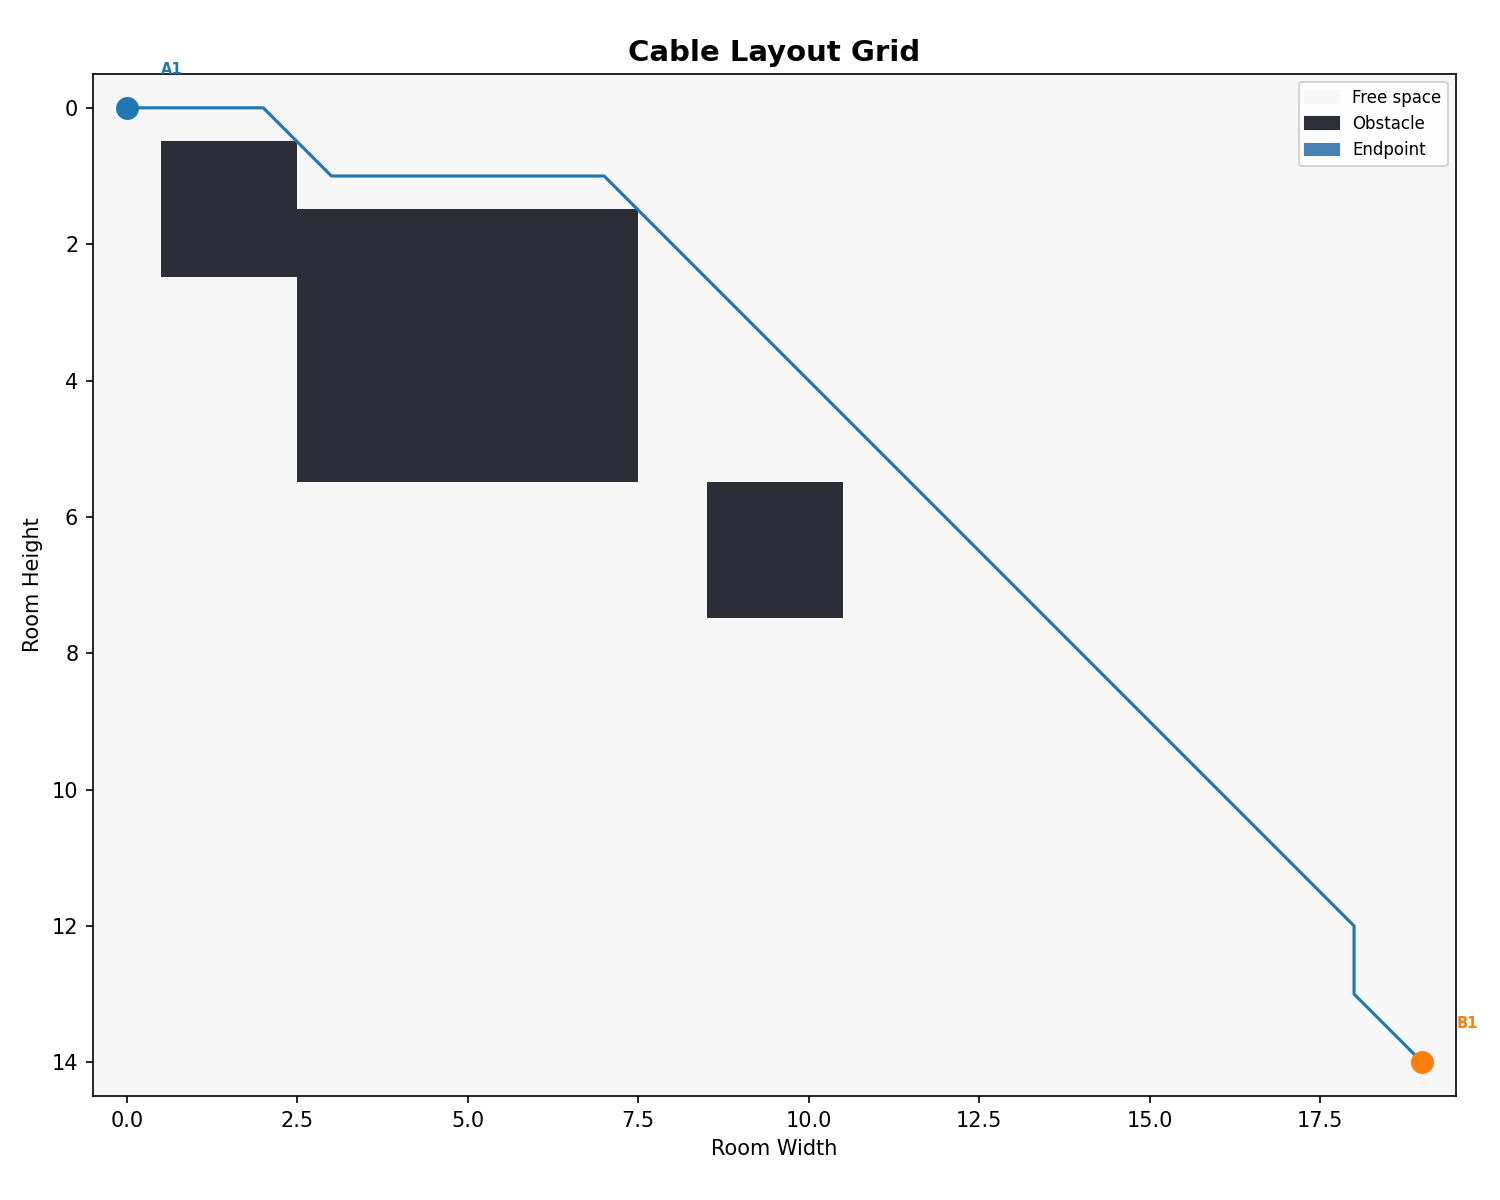
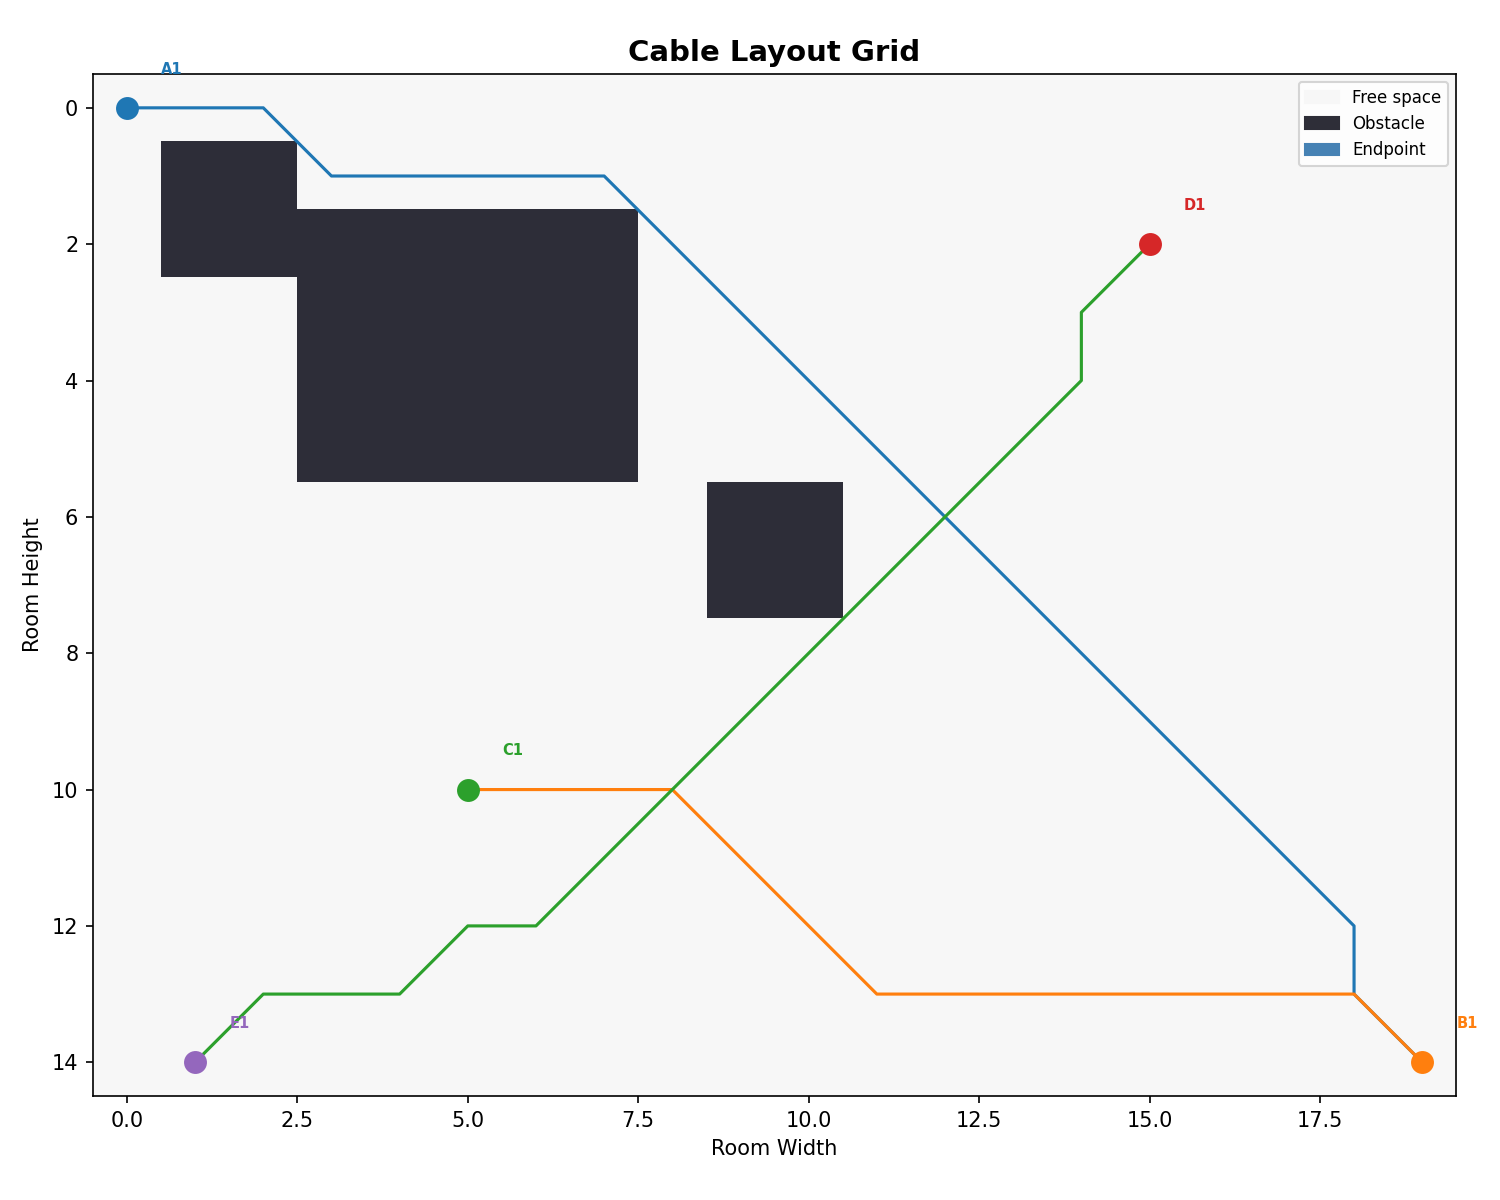
Working on intersections

diff --git a/Intersections.py b/Intersections.py
@@ -1,0 +1,15 @@
+from dataclasses import dataclass
+
+import numpy as np
+from collections import Counter
+
+@dataclass
+class Intersection:
+    x: int
+    y: int 
+    num_cables: int 
+
+def get_intersections(paths: list[np.array]):
+    node_counts = Counter(node for path in paths for node in path)
+    shared  = {node for node, count in node_counts.items() if count > 1}
+    return shared 

diff --git a/main.py b/main.py
@@ -3,7 +3,7 @@ import json
 import argparse
 import numpy as np
 from dataclasses import dataclass, field
-from typing import Optional
+from typing import Optional, Tuple
 import sys
 import AStar
 
@@ -50,6 +50,8 @@ class ParsedLayout:
     grid: np.ndarray           # 2-D int array  (0=free, 1=wall/obstacle)
     endpoint_coords: dict      # id → (row, col) in grid
 
+
+paths = list[np.array]
 
 def parse_json(path: str) -> tuple[Room, list[Obstacle], list[Endpoint]]:
     with open(path) as f:
@@ -281,7 +283,7 @@ def visualize_matplotlib(layout: ParsedLayout):
 
 
     # Draw connections
-    # TODO: USE A* TO DETERMINE CONNECTION LINES
+    # TODO: LOCATE INTERSECTIONS 
 
     for i, ep in enumerate(layout.endpoints):
         if ep.connects_to is not None:
@@ -290,10 +292,11 @@ def visualize_matplotlib(layout: ParsedLayout):
             path = AStar.find_path(layout.grid, start, end)
             if path:
                 path = np.array(path)
+                paths.append(path)
                 plt.plot(path[:,1], path[:, 0])
         else:
             continue
-        
+
     rows, cols = layout.grid.shape
     ax.set_xlim(-0.5, cols - 0.5)
     ax.set_ylim(rows - 0.5, -0.5)
@@ -310,7 +313,7 @@ def visualize_matplotlib(layout: ParsedLayout):
     plt.savefig("layout_preview.png", dpi=150)
     print("  [info] Saved graphical preview to layout_preview.png")
     plt.show()
-
+s
 
 def main():
     parser = argparse.ArgumentParser(description="Parse a JSON room layout into a numpy grid.")
@@ -340,7 +343,7 @@ def main():
     print(f"  Blocked    : {int((layout.grid == 1).sum())}")
     print(f"  Endpoints  : {len(layout.endpoint_coords)}\n")
 
-    return layout   # useful when imported as a module
+    return layout   
 
 
 if __name__ == "__main__":